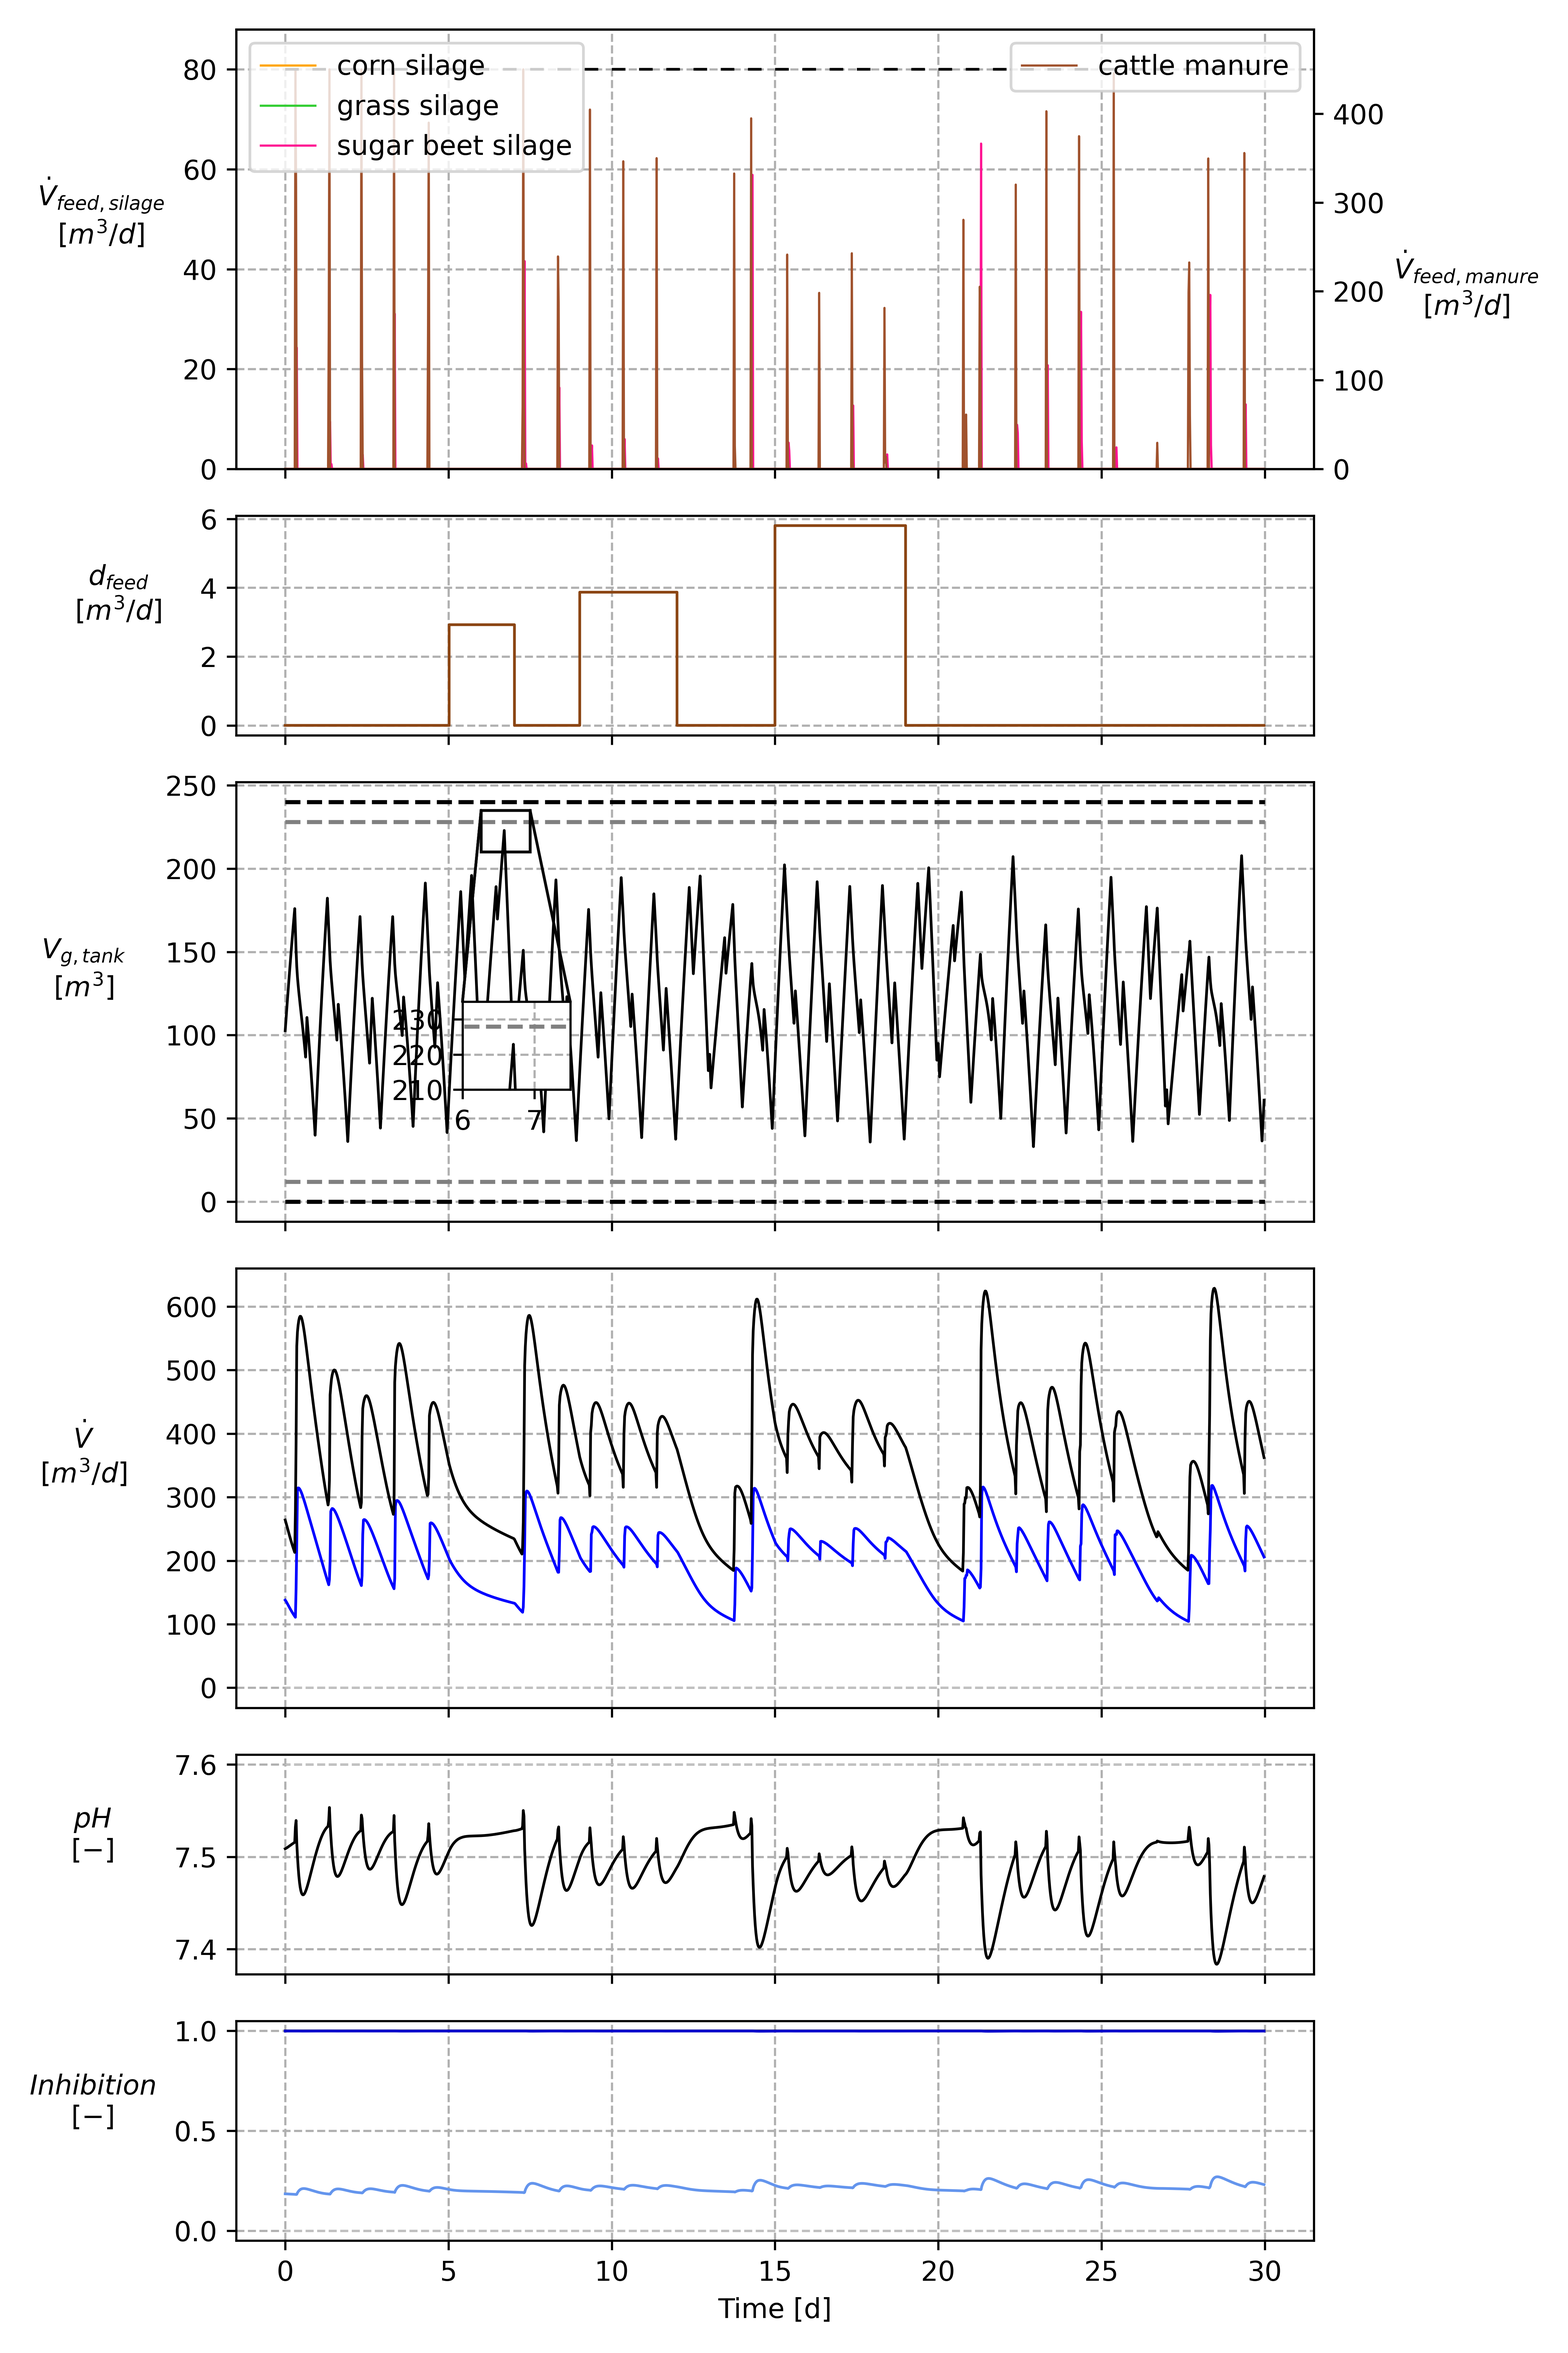
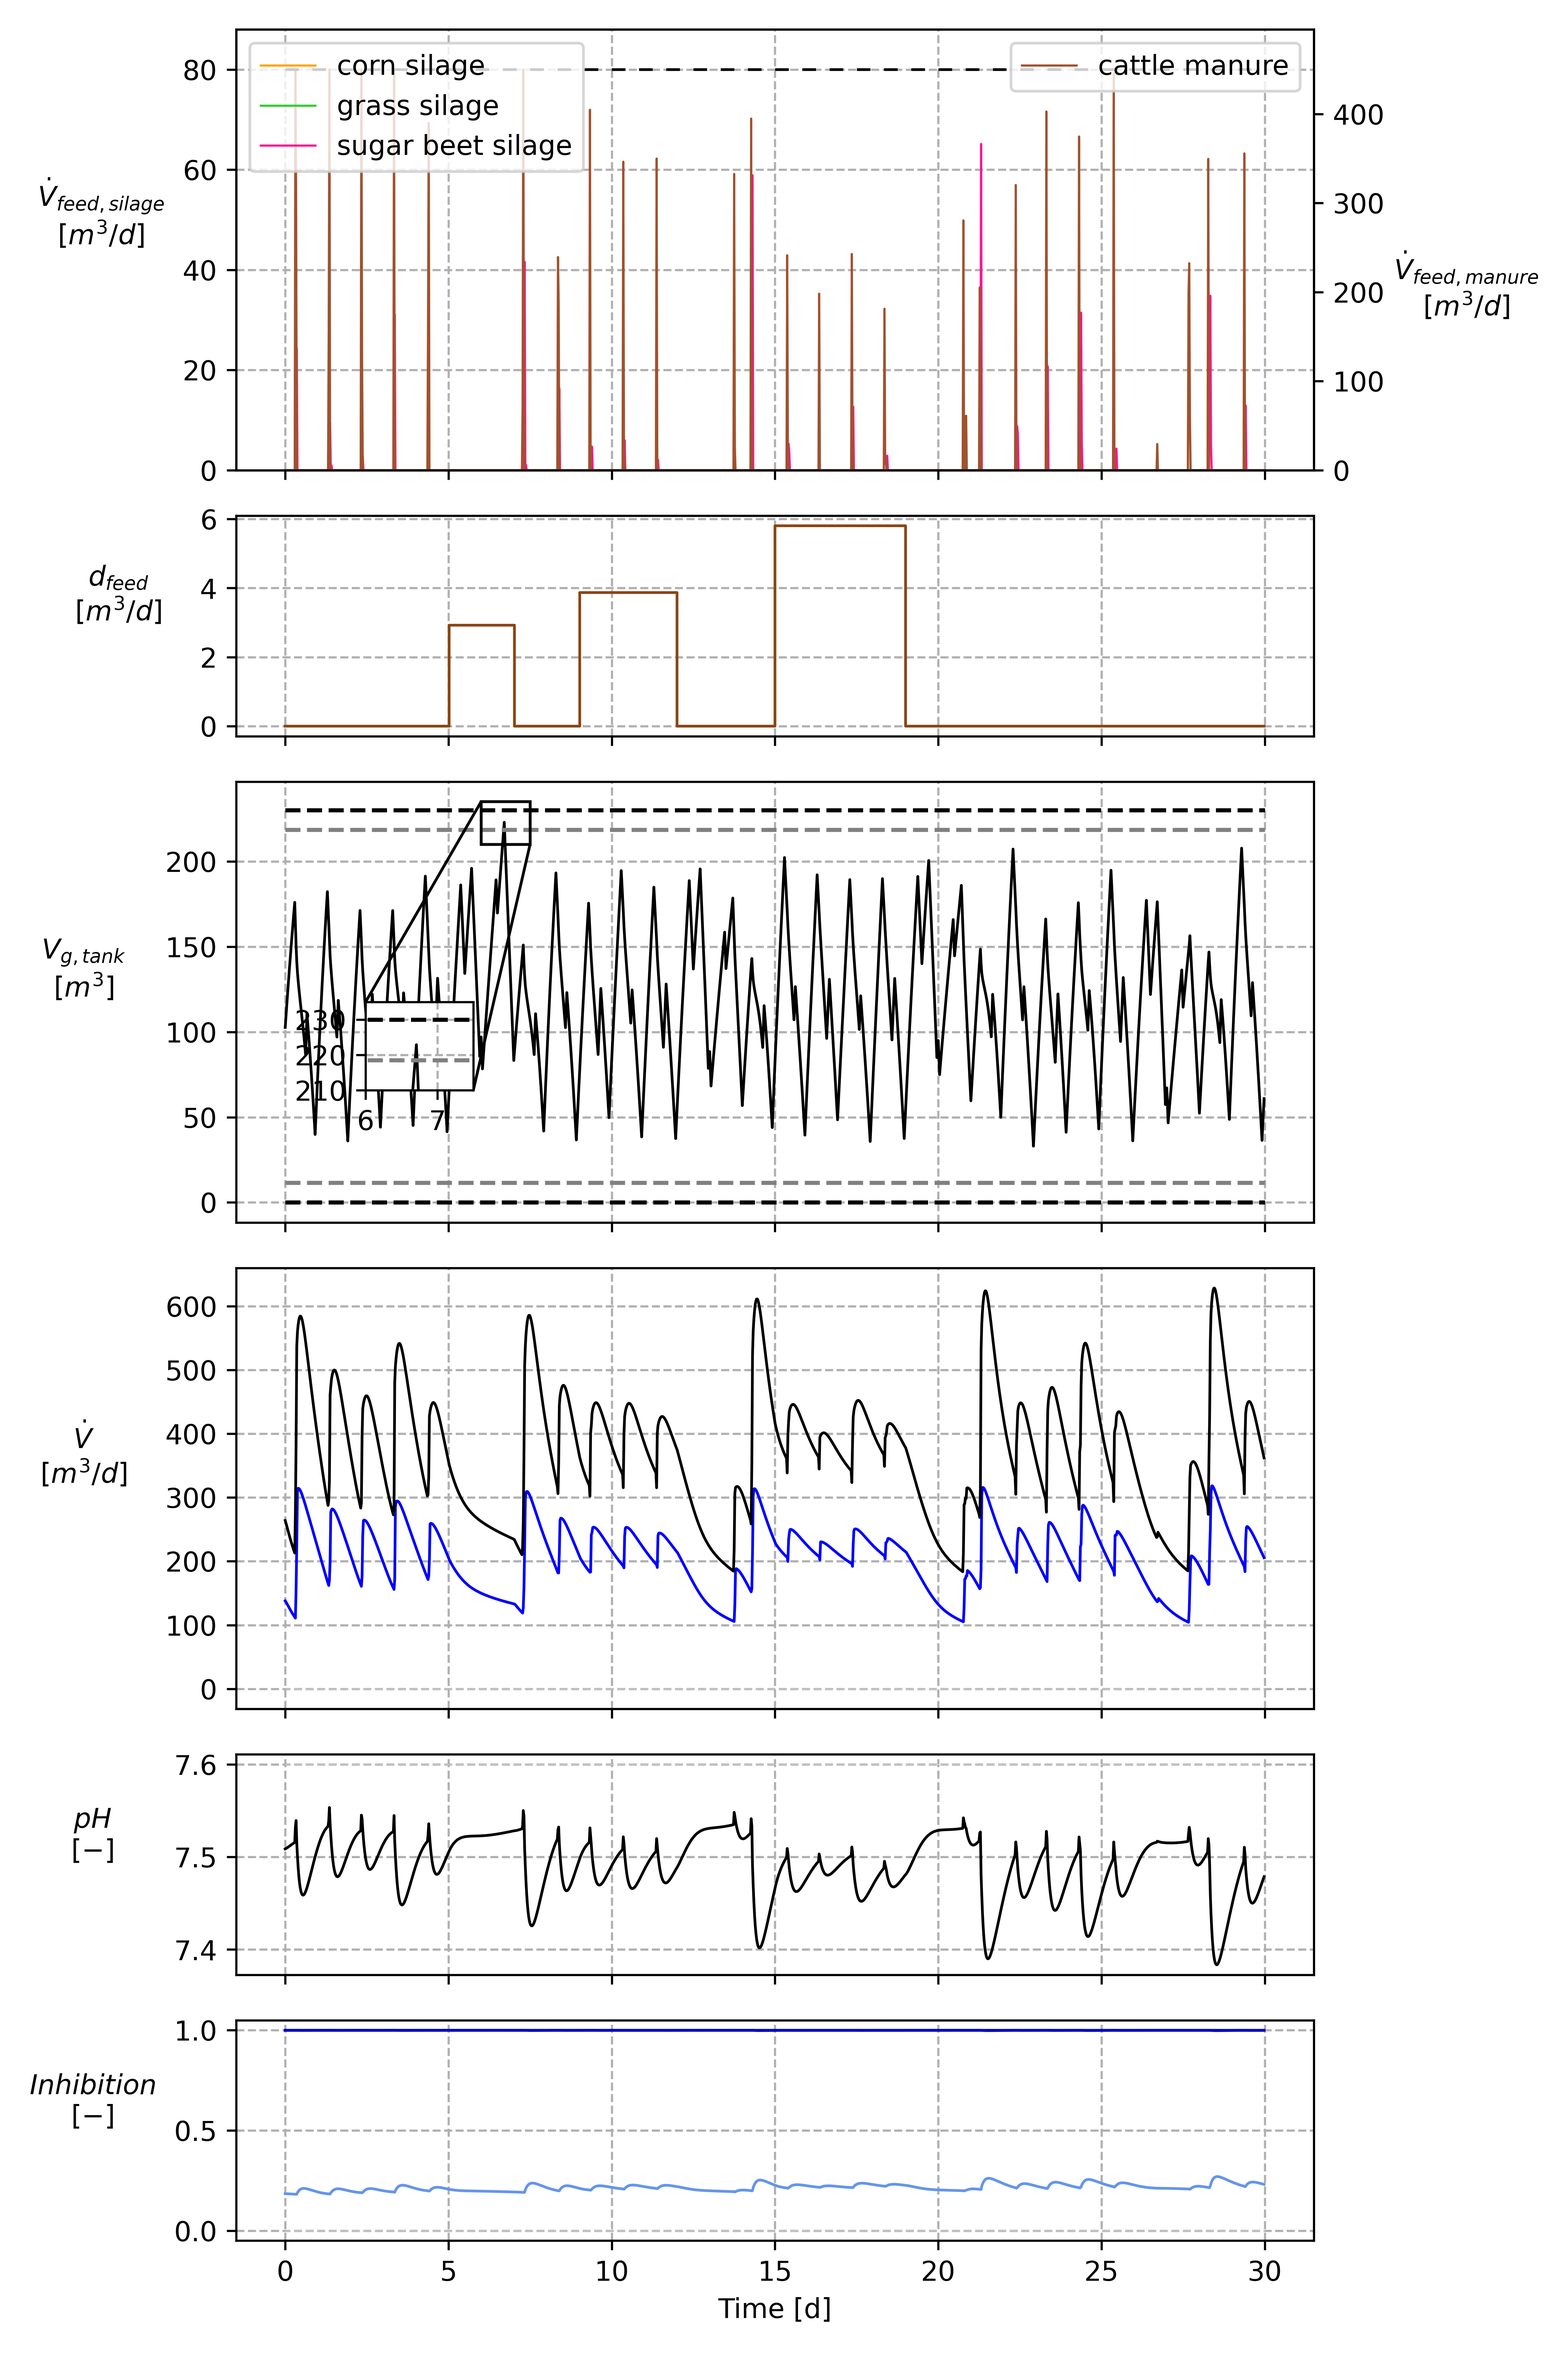
update plots of scenario 2b and 2c

Changed region(s): [[0.1875, 0.3125, 0.8125, 0.4688], [0.75, 0.4062, 0.7812, 0.4375], [0.6875, 0.4062, 0.7188, 0.4375]]

diff --git a/ad_meal_prep_control/plot_generation/plot_scenario_2b.py b/ad_meal_prep_control/plot_generation/plot_scenario_2b.py
@@ -6,9 +6,10 @@ from ad_meal_prep_control.postprocessing import (
 )
 from ad_meal_prep_control import params_R3
 import sys
+#from ad_meal_prep_control.plot_generation.Controller_output_plotting.Output_Scenario_2c import controller_plotting_2b
 
 post_processing = PostProcessing(
-    result_directory="/home/julius/Projects/ad_meal_prep_control/results",
+    result_directory="../scenarios/results",
     scenario_name="Scenario_2b_dynamic",
 )
 
@@ -26,42 +27,43 @@ post_processing.plot(
             {
                 "dictated_sub_feed_1": PlotVarProperty(
                     mpl_properties=MPLProperties(
-                        color=post_processing.MEASUREMENT_COLOR,
-                        linewidth=1.5,
+                        color='saddlebrown',
+                        linewidth=1,
                         linestyle="-",
                     ),
                     label="cattle manure\nwith large uncertainty",
                 ),
             },
         ),
-        (
-            "Gas storage  \nlevel" + r" $[\%]$",
-            {
-                "x_19": PlotVarProperty(
-                    mpl_properties=MPLProperties(
-                        color="green", linewidth=1.5, linestyle="-"
-                    ),
-                    label=r"$V_{CH_4,tank}$",
-                    scaling=100.0,
-                ),
-                "x_20": PlotVarProperty(
-                    mpl_properties=MPLProperties(
-                        color="black", linewidth=1.5, linestyle="-"
-                    ),
-                    label=r"$V_{CO_2,tank}$",
-                    scaling=100.0,
-                ),
-            },
-        ),
+        #(
+        #    "Gas storage  \nlevel" + r" $[\%]$",
+        #    {
+        #        "x_19": PlotVarProperty(
+        #            mpl_properties=MPLProperties(
+        #                color="green", linewidth=1.5, linestyle="-"
+        #            ),
+        #            label=r"$V_{CH_4,tank}$",
+        #            scaling=100.0,
+        #        ),
+        #        "x_20": PlotVarProperty(
+        #            mpl_properties=MPLProperties(
+        #                color="black", linewidth=1.5, linestyle="-"
+        #            ),
+        #            label=r"$V_{CO_2,tank}$",
+        #            scaling=100.0,
+        #        ),
+        #    },
+        #),
         (
             r"$V_{g, tank}$" + "\n" + r"$[m^3]$",
             {
                 "v_gas_storage": PlotVarProperty(
                     mpl_properties=MPLProperties(
                         color=post_processing.MEASUREMENT_COLOR,
-                        linewidth=1.5,
+                        linewidth=1,
                         linestyle="-",
-                    )
+                    ),
+                    label=r"$\dot V_{g, tank, plant}$",
                 )
             },
         ),
@@ -70,41 +72,68 @@ post_processing.plot(
             {
                 "v_ch4_dot_tank_in": PlotVarProperty(
                     mpl_properties=MPLProperties(
-                        color=post_processing.MEASUREMENT_COLOR,
-                        linewidth=1.5,
+                        color='blue',
+                        linewidth=1,
                         linestyle="-",
                     ),
-                    label=r"$\dot V_{CH_4,AD}$",
+                    label=r"$\dot V_{CH_4,AD, plant}$",
                 ),
                 "y_1": PlotVarProperty(
                     mpl_properties=MPLProperties(
-                        color="blue",
-                        linewidth=1.5,
+                        color="black",
+                        linewidth=1,
                         linestyle="-",
                     ),
-                    label=r"$\dot V_{g, AD}$",
+                    label=r"$\dot V_{g, AD, plant}$",
                 ),
             },
         ),
         (
-            r"$pH$" + "\n" + r"$[1]$",
+            r"$pH$" + "\n" + r"$[-]$",
             {
                 "y_4": PlotVarProperty(
-                    mpl_properties=MPLProperties(linewidth=1.5, linestyle="-"),
-                    label="",
+                    mpl_properties=MPLProperties(linewidth=1, linestyle="-"),
+                    label="$pH_{plant}$",
                 )
             },
         ),
+(
+            r"$Inhibition$" + "\n" + r"$[-]$",
+            {
+                "inhibition_1": PlotVarProperty(
+                    mpl_properties=MPLProperties(
+                        color="black", linewidth=1, linestyle="-"
+                    ),
+                    label=r"$Inhibition_1$",
+                ),
+                "inhibition_2": PlotVarProperty(
+                    mpl_properties=MPLProperties(
+                        color="mediumblue", linewidth=1, linestyle="-"
+                    ),
+                    label=r"$Inhibition_2$",
+                ),
+                "inhibition_3": PlotVarProperty(
+                    mpl_properties=MPLProperties(
+                        color="cornflowerblue", linewidth=1, linestyle="-"
+                    ),
+                    label=r"$Inhibition_3$",
+                ),
+            },
+        ),
     ],
-    plot_save_name="scenario_2b",
+    plot_save_name="Scenario_2b_dynamic",
     constraints=[
         Constraint(value=0.0, ax_idx=2),
-        Constraint(value=0.0, ax_idx=3),
-        Constraint(value=params_R3.V_GAS_STORAGE_MAX, ax_idx=3),
-        Constraint(value=0.05 * params_R3.V_GAS_STORAGE_MAX, ax_idx=3, color="blue"),
-        Constraint(value=0.95 * params_R3.V_GAS_STORAGE_MAX, ax_idx=3, color="blue"),
+        Constraint(value=params_R3.V_GAS_STORAGE_MAX, ax_idx=2),
+        Constraint(value=0.05 * params_R3.V_GAS_STORAGE_MAX, ax_idx=2, color="grey"),
+        Constraint(value=0.95 * params_R3.V_GAS_STORAGE_MAX, ax_idx=2, color="grey"),
+        # adapt ylim of plots by adding invisible horizontal lines:
+        Constraint(value=0, ax_idx=3, color="white"),  # gas production lower bound
+        Constraint(value=7.6, ax_idx=4, color="white"),  # pH upper bound
+        Constraint(value=0, ax_idx=5, color="white"),  # inhibtion lower bound
     ],
     dpi=dpi,
     show_plot=show_plot,
-    height_ratios=[2, 1, 2, 2, 2, 1],
+    height_ratios=[2, 1, 2, 2, 1, 1],
 )
+#controller_plotting_2b()

diff --git a/ad_meal_prep_control/scenarios/scenario_2b.py b/ad_meal_prep_control/scenarios/scenario_2b.py
@@ -8,10 +8,10 @@ from ad_meal_prep_control.utils import (
 from ad_meal_prep_control.params_R3 import P_el_chp
 import numpy as np
 
-lterm = "(0.5*(model.x['x_19'] + model.x['x_20'] + model.aux['V_H2O']/V_GAS_STORAGE_MAX - 0.43)**2 + 50.*(model.x['x_19'] + model.x['x_20'] + model.aux['V_H2O']/V_GAS_STORAGE_MAX - 0.43)**4)"
-
+lterm = ("(0.5*(model.x['x_19'] + model.x['x_20'] + model.aux['V_H2O']/V_GAS_STORAGE_MAX - 0.4)**2 + "
+         "+ 50.*(model.x['x_19'] + model.x['x_20'] + model.aux['V_H2O']/V_GAS_STORAGE_MAX - 0.4)**4)"
+         )
 mterm = "model.tvp['dummy_tvp']"
-
 cost_func = CostFunction(lterm=lterm, mterm=mterm)
 
 n_days_mpc = 30
@@ -19,7 +19,7 @@ n_days_mpc = 30
 controller_params = ControllerParams(
     mpc_n_horizon=40,
     mpc_n_robust=1,
-    num_std_devs=2.0,
+    num_std_devs=1,
     cost_func=cost_func,
     substrate_cost_formulation="linear",
     gas_storage_bound_fraction=0.05,
@@ -31,13 +31,22 @@ kwargs = {
     "mpc_live_vis": False,
     "P_el_chp": 50.0,
     "t_step": 0.5 / 24.0,
+    "plot_vars": [
+            "u_norm",
+            "y_meas_1",
+            "v_ch4_dot_tank_in",
+            "y_meas_4",
+    ],
     "disturbances": Disturbances(
         dictated_feeding={
-            "CATTLE_MANURE_VERY_UNCERTAIN": [(5.0, 10.0, 0.01)],
+            "CATTLE_MANURE_VERY_UNCERTAIN": [(5.0, 7.0, 0.0065),
+                                             (9.0, 12.0, 0.0086),
+                                             (15.0, 19.0, 0.0129)],
         },
-        max_feeding_error=0.05,
+        #max_feeding_error=0.05,
     ),
     "n_days_mpc": n_days_mpc,
+    "num_std_devs_sim": 1,
 }
 
 scenario = ScenarioFactory().create_scenario(

diff --git a/ad_meal_prep_control/plot_generation/plot_scenario_2c.py b/ad_meal_prep_control/plot_generation/plot_scenario_2c.py
@@ -6,7 +6,6 @@ from ad_meal_prep_control.postprocessing import (
 )
 from ad_meal_prep_control import params_R3
 import sys
-from ad_meal_prep_control.plot_generation.Controller_output_plotting.Output_Scenario_2c import controller_plotting_2c
 
 post_processing = PostProcessing(
     result_directory="../scenarios/results",
@@ -140,8 +139,7 @@ post_processing.plot(
                     "plot_idx": 2,
                     "days": (6, 7.5),
                     "ylimit": (210, 235),
-                    "inset_axis_specs": (0.21, 0.3, 0.1, 0.2),
+                    "inset_axis_specs": (0.12, 0.3, 0.1, 0.2),
                 },
             ],
 )
-controller_plotting_2c()

diff --git a/ad_meal_prep_control/scenarios/scenario_2c.py b/ad_meal_prep_control/scenarios/scenario_2c.py
@@ -33,6 +33,7 @@ controller_params = ControllerParams(
 
 t_step = 0.5 / 24.0
 
+# add gas storage measurement noise ("state jumps"):
 rng = default_rng()
 mpc_t_steps = int(n_days_mpc / t_step)
 
